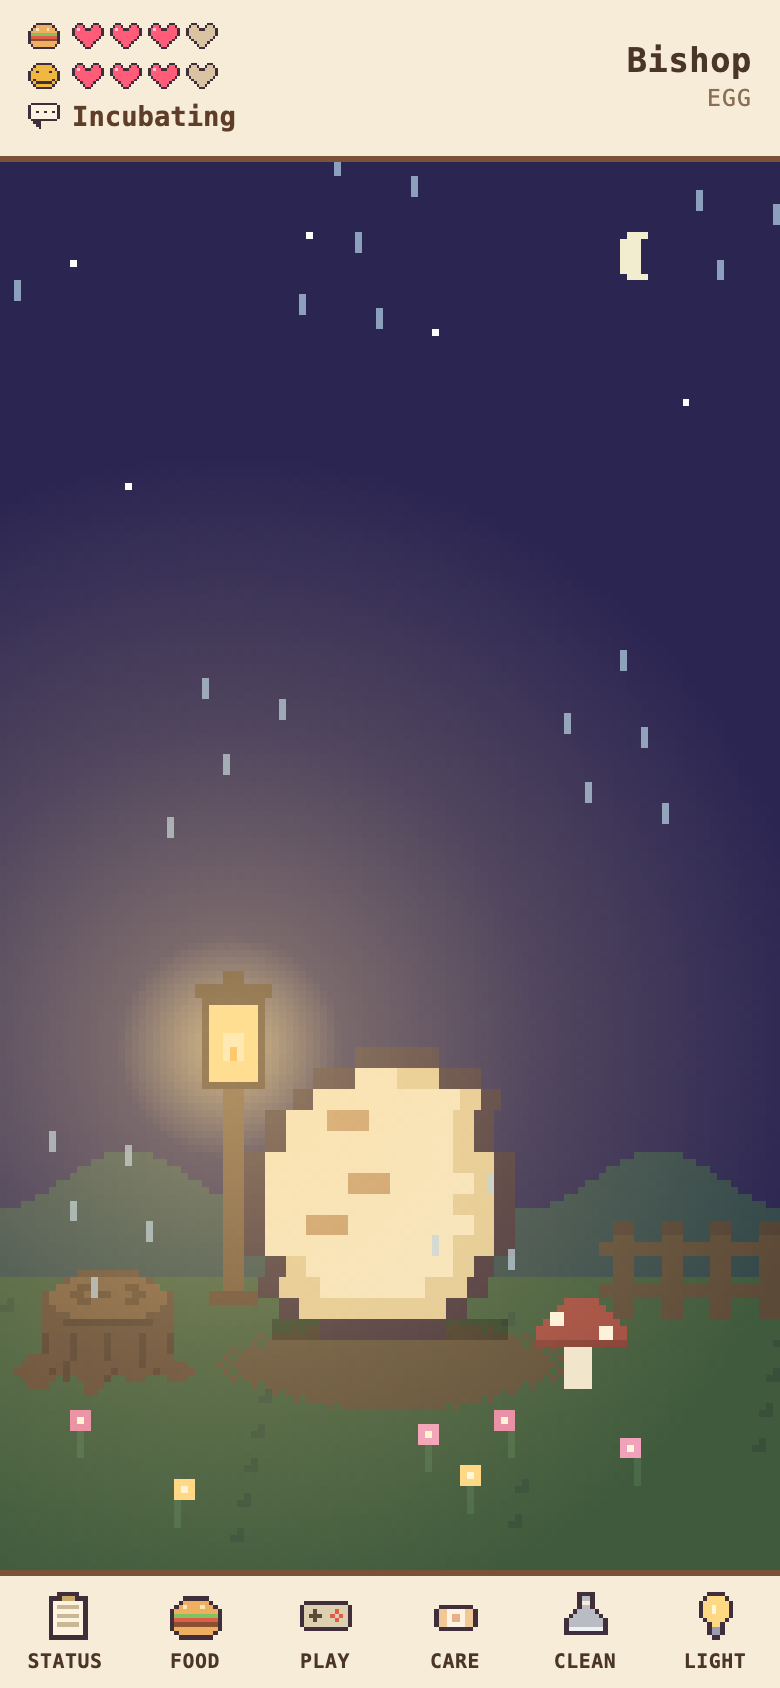
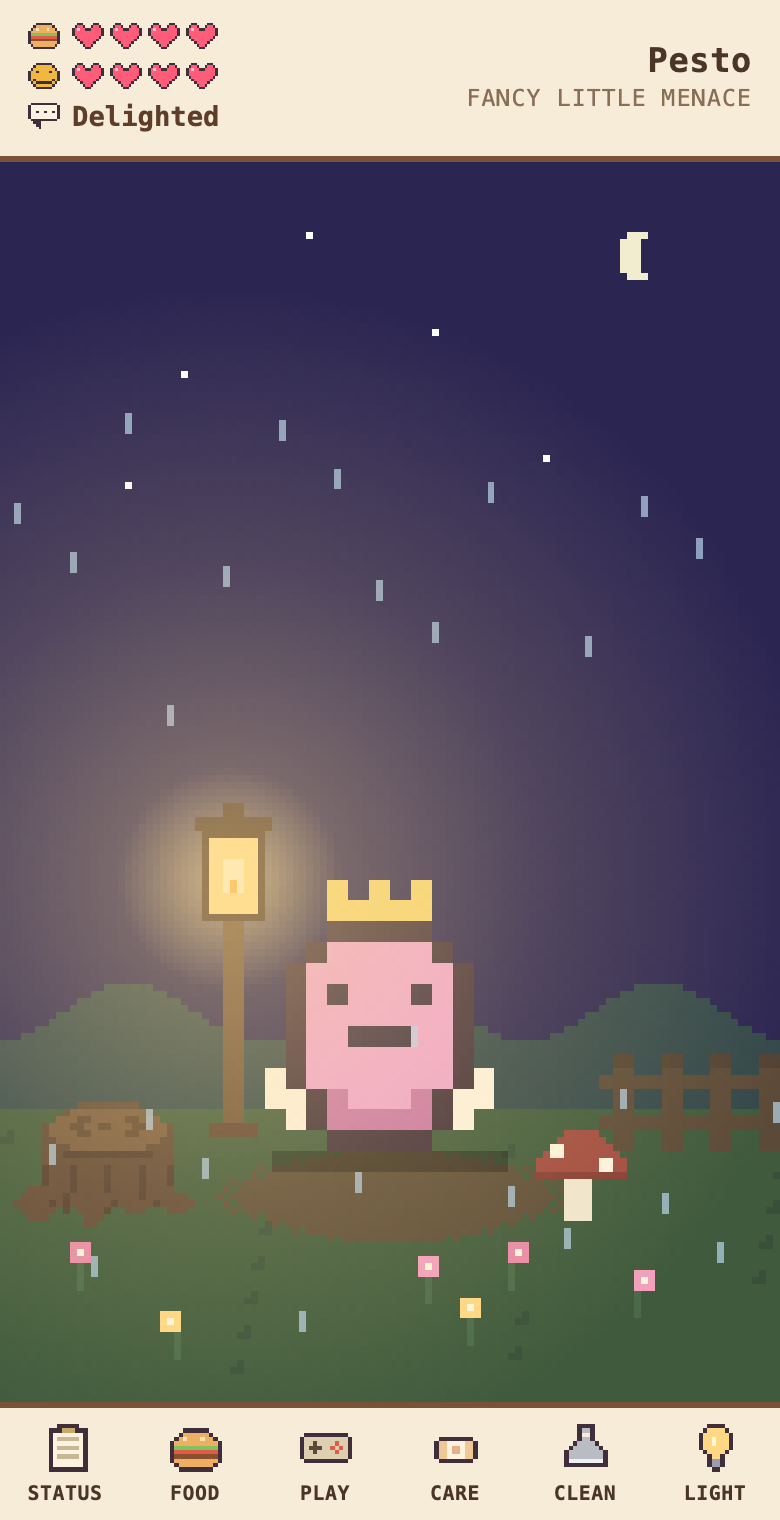
README shots: real mid- and late-game captures, not title screens

diff --git a/README.md b/README.md
@@ -11,9 +11,9 @@ not told the formula; you learn it by playing.
 **Play it: [cozy-sprites.vercel.app](https://cozy-sprites.vercel.app)** — add it
 to your home screen and it behaves like an app (PWA, works offline).
 
-| | |
-|---|---|
-| ![A new egg](shots/title.png) | ![Night in the meadow](shots/night.png) |
+| | | |
+|---|---|---|
+| ![An adult, thriving](shots/pet.png) | ![Fetch](shots/fetch.png) | ![Night](shots/night.png) |
 
 ## Run it
 
